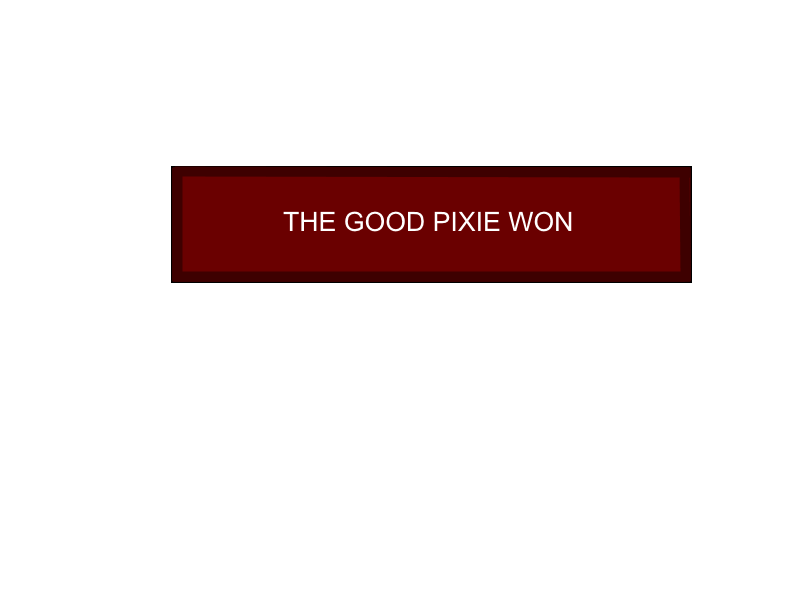
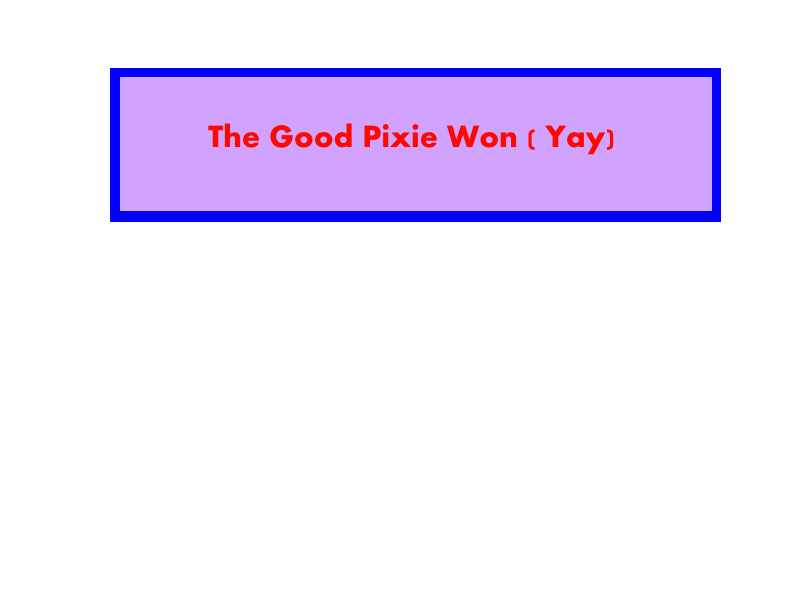
Fixed Winscreen

Changed region(s): [[0.125, 0.09, 0.9062, 0.48]]

diff --git a/TTG-Game/TTG-Game/Game1.cs b/TTG-Game/TTG-Game/Game1.cs
@@ -992,6 +992,11 @@ namespace LinuxTesting
             {
                 spriteBatch.Draw(BadWon, new Rectangle(0, 0, Window.ClientBounds.Width, Window.ClientBounds.Height), null, Color.White, 0, Vector2.Zero, SpriteEffects.None, 0);
             }
+
+            if (gameStates == GameStates.GoodPixieWin)
+            {
+                spriteBatch.Draw(GoodWon, new Rectangle(0, 0, Window.ClientBounds.Width, Window.ClientBounds.Height), null, Color.White, 0, Vector2.Zero, SpriteEffects.None, 0);
+            }
             //spriteBatch.Draw(Pixie, SpritePOS, new Rectangle(currentFrame.X * frameSize.X, currentFrame.Y * frameSize.Y, frameSize.X, frameSize.Y), Color.White, 0, Vector2.Zero, 1, SpriteEffects.None, 0);
             spriteBatch.End();
             base.Draw(gameTime);
